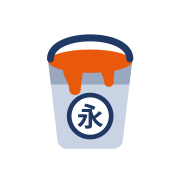
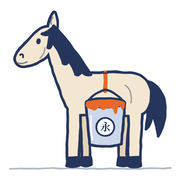
圖示改為小馬油漆桶
Claude-Session: https://claude.ai/code/session_01UFsGdZjkz2ZbkHMsCwKEbZ

diff --git a/index.html b/index.html
@@ -6,9 +6,9 @@
 <title>工作進度</title>
 <meta name="theme-color" content="#1F3864">
 <meta name="apple-mobile-web-app-title" content="工作進度">
-<link rel="icon" type="image/png" href="favicon.png">
-<link rel="apple-touch-icon" href="apple-touch-icon.png">
-<link rel="manifest" href="manifest.webmanifest">
+<link rel="icon" type="image/png" href="favicon.png?v=2">
+<link rel="apple-touch-icon" href="apple-touch-icon.png?v=2">
+<link rel="manifest" href="manifest.webmanifest?v=2">
 <script>
   var APP_URL = 'https://script.google.com/macros/s/AKfycbwLInQlLcsM2b4txP0IYZyn0LJFnJ3CSdefzk52NfdBbTusR9qdtiHKSlRdc6A9TsdoAw/exec';
   // 從主畫面圖示開啟（網址帶 home=1）就直接進 App
@@ -32,13 +32,13 @@
 </head>
 <body>
 <div class="wrap">
-  <img class="logo" src="apple-touch-icon.png" alt="工作進度">
+  <img class="logo" src="logo.png?v=2" alt="工作進度">
   <h1>工作進度</h1>
   <p class="sub">任務・拜訪・團隊進度</p>
   <a class="go" id="go" href="#">進入 App</a>
 
   <div class="card">
-    <h2>📲 加到手機主畫面（圖示會是油漆桶）</h2>
+    <h2>📲 加到手機主畫面（圖示會是小馬油漆桶）</h2>
     <div id="ios" class="hide">
       <ol><li>用 <b>Safari</b> 開啟這一頁</li><li>點下方的「分享」按鈕 <b>⬆</b></li><li>選「<b>加入主畫面</b>」→「新增」</li></ol>
     </div>
